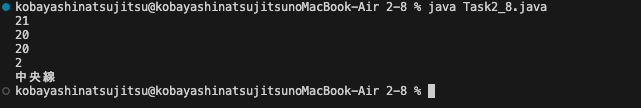
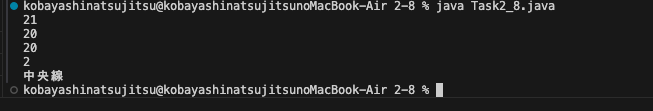
2-8

Changed region(s): [[0.0, 0.0, 0.8736, 0.3611], [0.0, 0.6389, 0.6864, 0.9167], [0.0, 0.3889, 0.0624, 0.6389]]

diff --git a/Study/2-8/Task2_8.java b/Study/2-8/Task2_8.java
@@ -20,15 +20,13 @@ public class Task2_8 {
 
 
     // ① 5 と 16 を加算した値を代入する、変数 plus を作成して下さい。
-    int plus = 0;
-    plus = 5 + 16;
+    int plus =  5 + 16;
 
 
 
 
     // ② 27 から 7 を減算した値を代入する、変数 minus を作成して下さい。
-    int minus = 0;
-    minus = 27 - 7;
+    int minus = 27 - 7;
 
 
 
